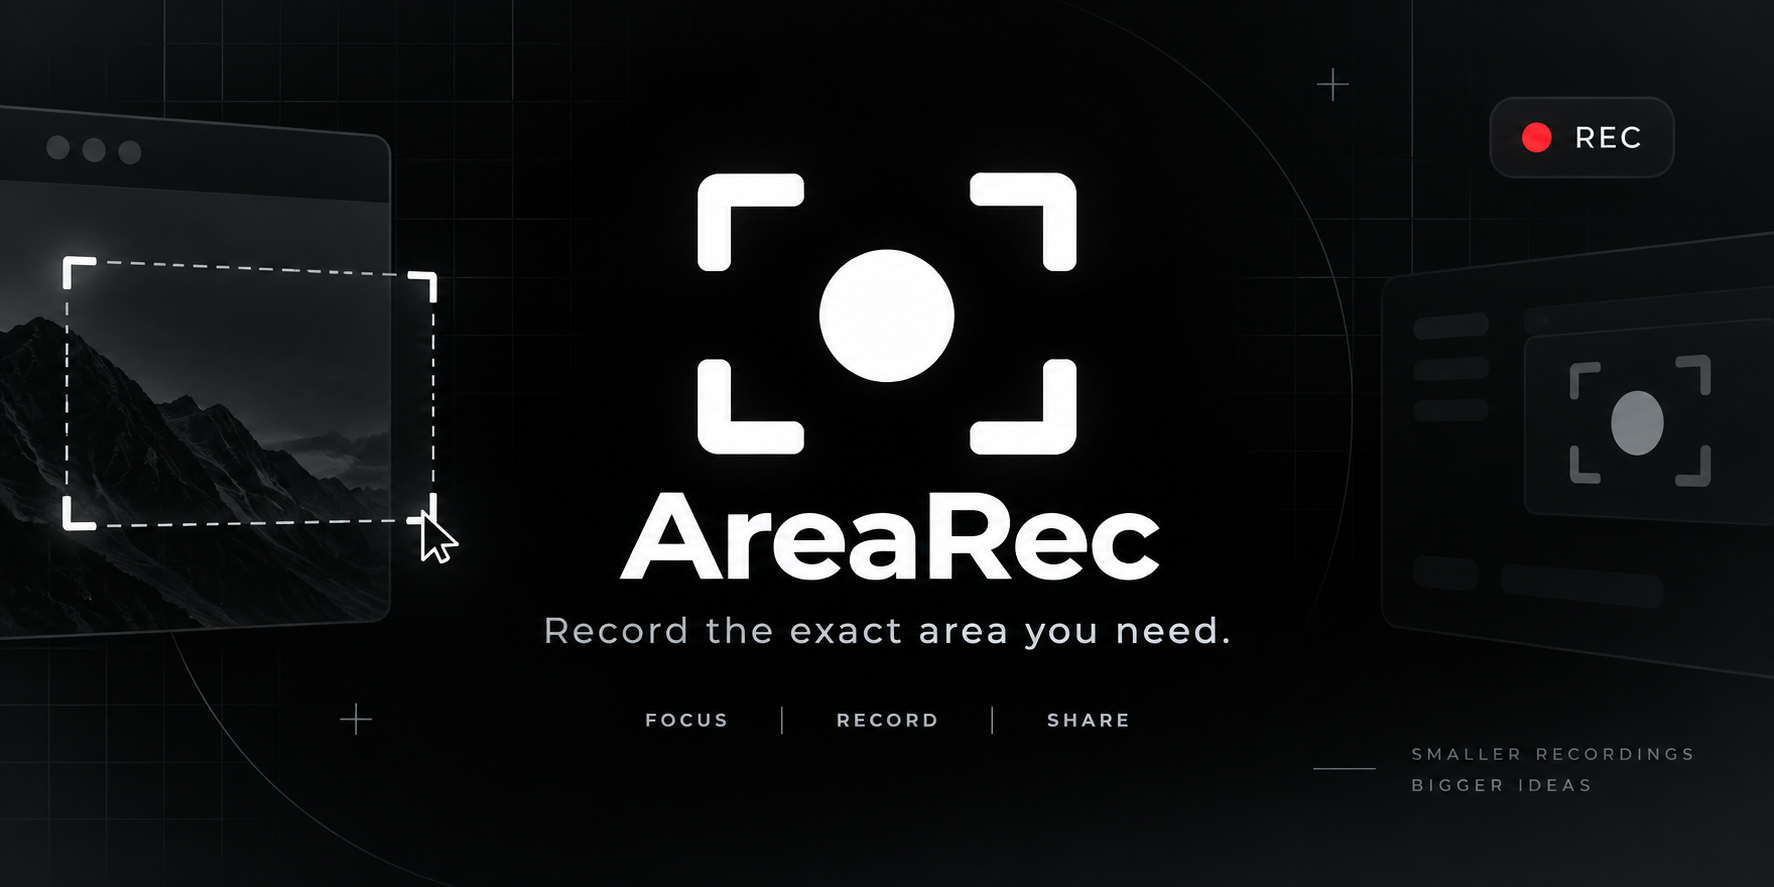
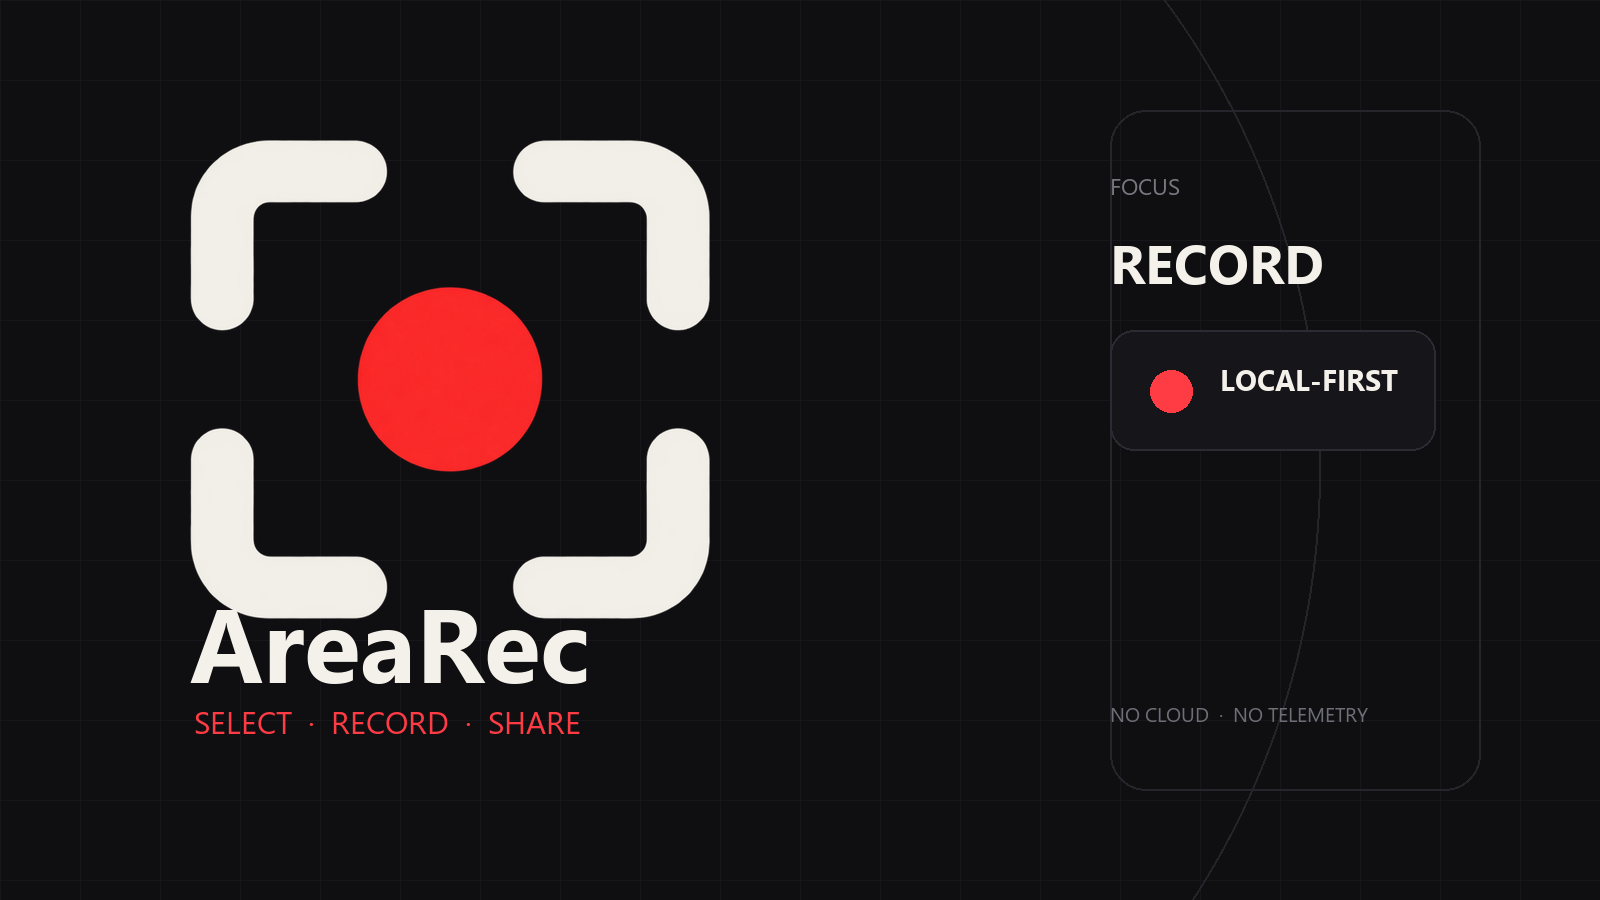
feat(branding): refresh AreaRec brand system

diff --git a/docs/BRANDING.md b/docs/BRANDING.md
@@ -1,0 +1,28 @@
+# AreaRec brand
+
+AreaRec is the capture half of the Area product family. Its visual language is deliberately focused: a four-corner selection frame and a recording-red center dot communicate “record this exact area” at a glance.
+
+## Core assets
+
+| Asset | Use |
+| --- | --- |
+| `assets/mark.png` | Transparent icon for app surfaces, favicons, and product UI |
+| `assets/logo.png` | Dark lockup for README, documentation, and release pages |
+| `assets/social-banner.png` | GitHub/social preview banner |
+| `assets/AreaRec.ico` | Windows executable and shortcut icon |
+| `tools/BuildAppIcon.ps1` | Rebuilds the `.ico` from the transparent mark |
+
+## Tokens
+
+- Deep charcoal: `#0F0F12`
+- Warm ivory: `#F4F1EA`
+- AreaRec recording red: `#FF3B44`
+- Muted graphite: `#25252B`
+
+The red dot is the only saturated accent. Keep the mark on deep charcoal or a neutral light surface with enough contrast. Do not add gradients, shadows, camera silhouettes, or extra controls to the logo.
+
+## Relationship to AreaCut
+
+AreaCut shares the crop-frame geometry but uses a diagonal coral cut mark for editing. AreaRec keeps the center dot and recording red for capture. The two marks should feel like one product family while remaining unambiguous in the Windows taskbar and Start menu.
+
+The transparent mark was generated with Codex's built-in image generation workflow, cleaned for small disconnected artifacts, and used as the deterministic source for the shipped lockup, banner, and icon.

diff --git a/README.md b/README.md
@@ -13,6 +13,8 @@
 
 AreaRec is a tiny, local-first Windows screen recorder focused on one workflow: drag a rectangle over the screen and record exactly that area. No account, no cloud, no telemetry, no editor.
 
+The visual identity is documented in [docs/BRANDING.md](docs/BRANDING.md). The repository ships the generated transparent mark, raster lockup, social banner, and Windows `.ico` application icon used by the app and portable installer.
+
 The native Windows implementation lives in the `AreaRec.sln` solution and is
 the only supported product path.
 

diff --git a/CHANGELOG.md b/CHANGELOG.md
@@ -7,3 +7,4 @@
 - 30/60 FPS and cursor controls.
 - MP4 output.
 - Branded executable icon plus portable installation script with Desktop and Start menu shortcuts.
+- Refreshed AreaRec brand kit with a high-contrast selection frame, recording-red center dot, raster lockup, social banner, and regenerated Windows icon.
